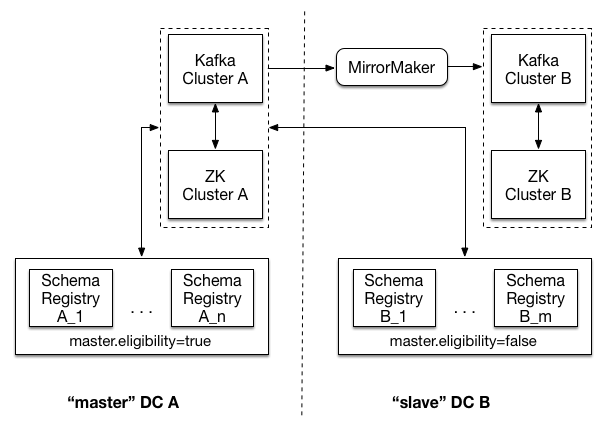
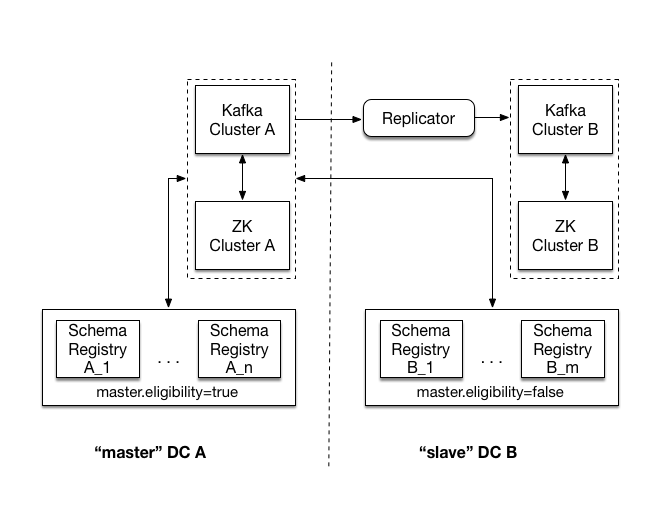
move away from MirrorMaker references to Replicator

diff --git a/docs/deployment.rst b/docs/deployment.rst
@@ -150,7 +150,7 @@ Recommended Deployment
 In the image above, there are two datacenters - DC A, and DC B. Each of the two datacenters has its own ZooKeeper
 cluster, Kafka cluster, and Schema Registry cluster. Both Schema Registry clusters link to Kafka and ZooKeeper in DC A. Note that the Schema Registry instances in DC B have ``master.eligibility`` set to false, meaning that none can ever be elected master.
 
-To protect against complete loss of DC A, Kafka cluster A (the source) is mirrored to Kafka cluster B (the target). Mirroring is achieved by running Kafka's MirrorMaker tool local to the target cluster.
+To protect against complete loss of DC A, Kafka cluster A (the source) is replicated to Kafka cluster B (the target). This is achieved by running the :ref:`Replicator` <connect_replicator>` local to the target cluster.
 
 Important Settings
 ^^^^^^^^^^^^^^^^^^
@@ -173,7 +173,7 @@ Assuming you have Schema Registry running, here are the recommended steps to add
 
 - In Kafka in DC B, create the ``_schemas`` topic. It should have 1 partition, ``kafkastore.topic.replication.factor`` of 3, and ``min.insync.replicas`` at least 2.
 
-- In DC B, run MirrorMaker with Kafka in the "master" datacenter as the source and Kafka in DC B as the target.
+- In DC B, run Replicator with Kafka in the "master" datacenter (DC A) as the source and Kafka in DC B as the target.
 
 - In the Schema Registry config files in DC B, set ``kafkastore.connection.url`` and ``schema.registry.zk.namespace`` to match the instances already running, and set ``master.eligibility`` to false.
 
